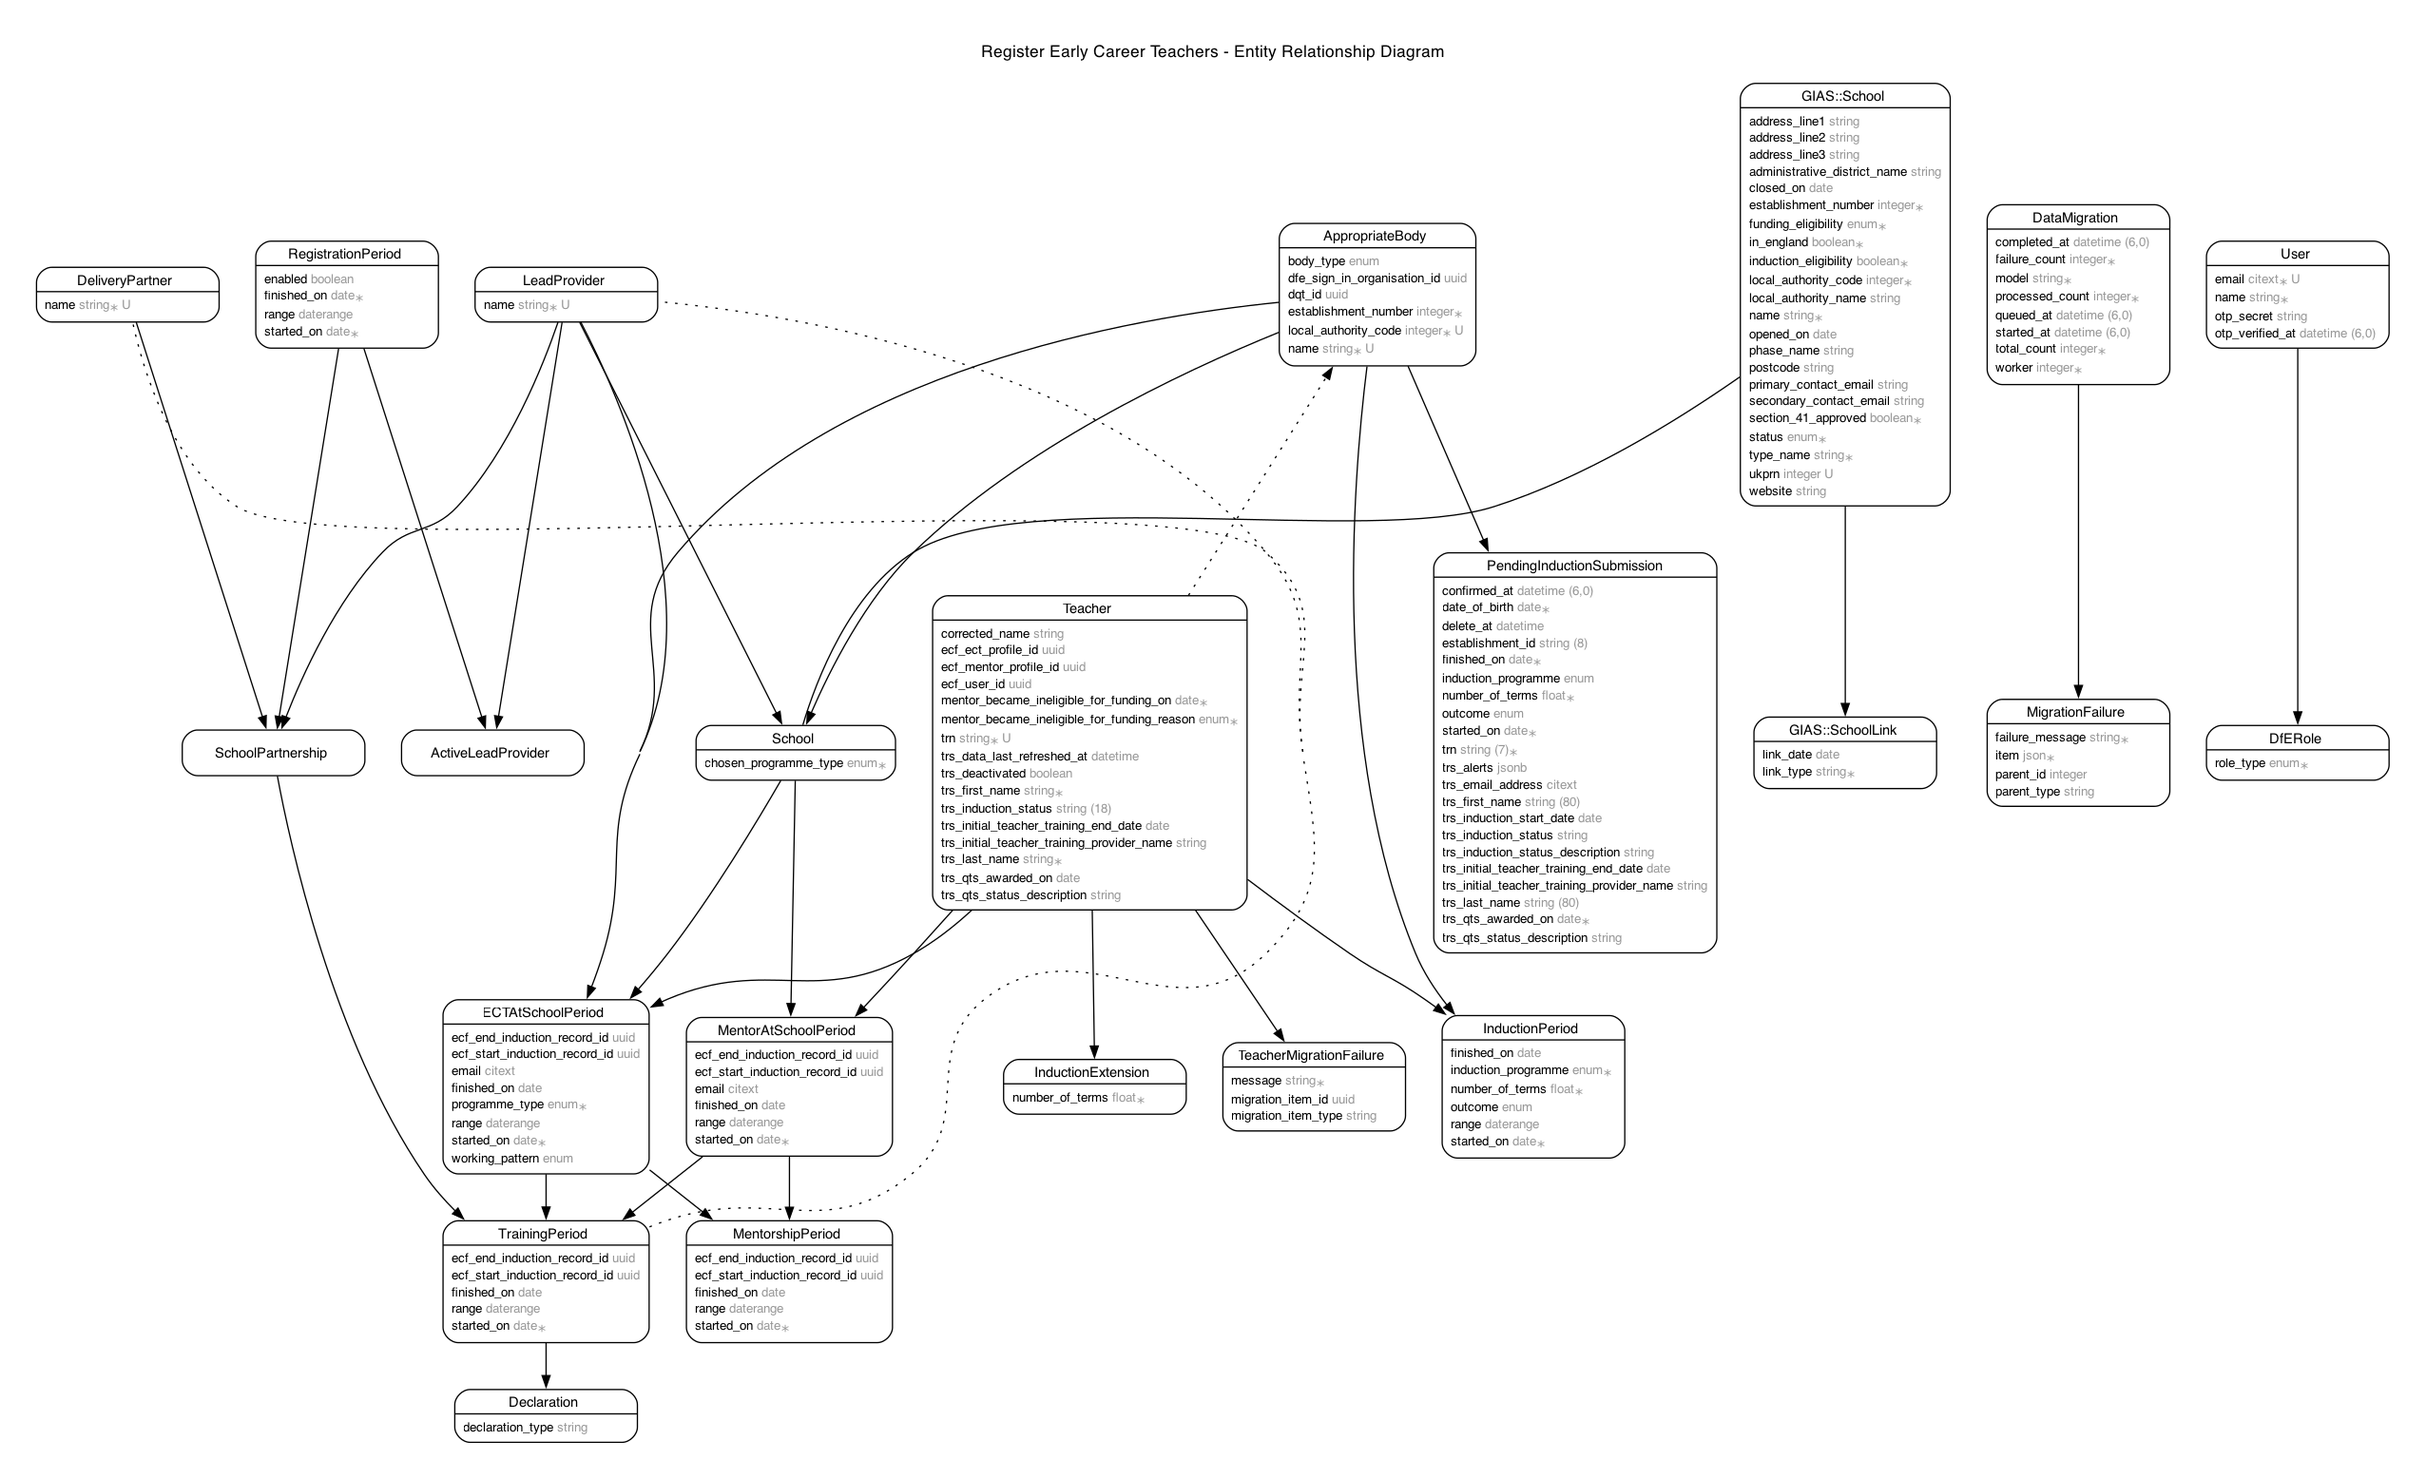
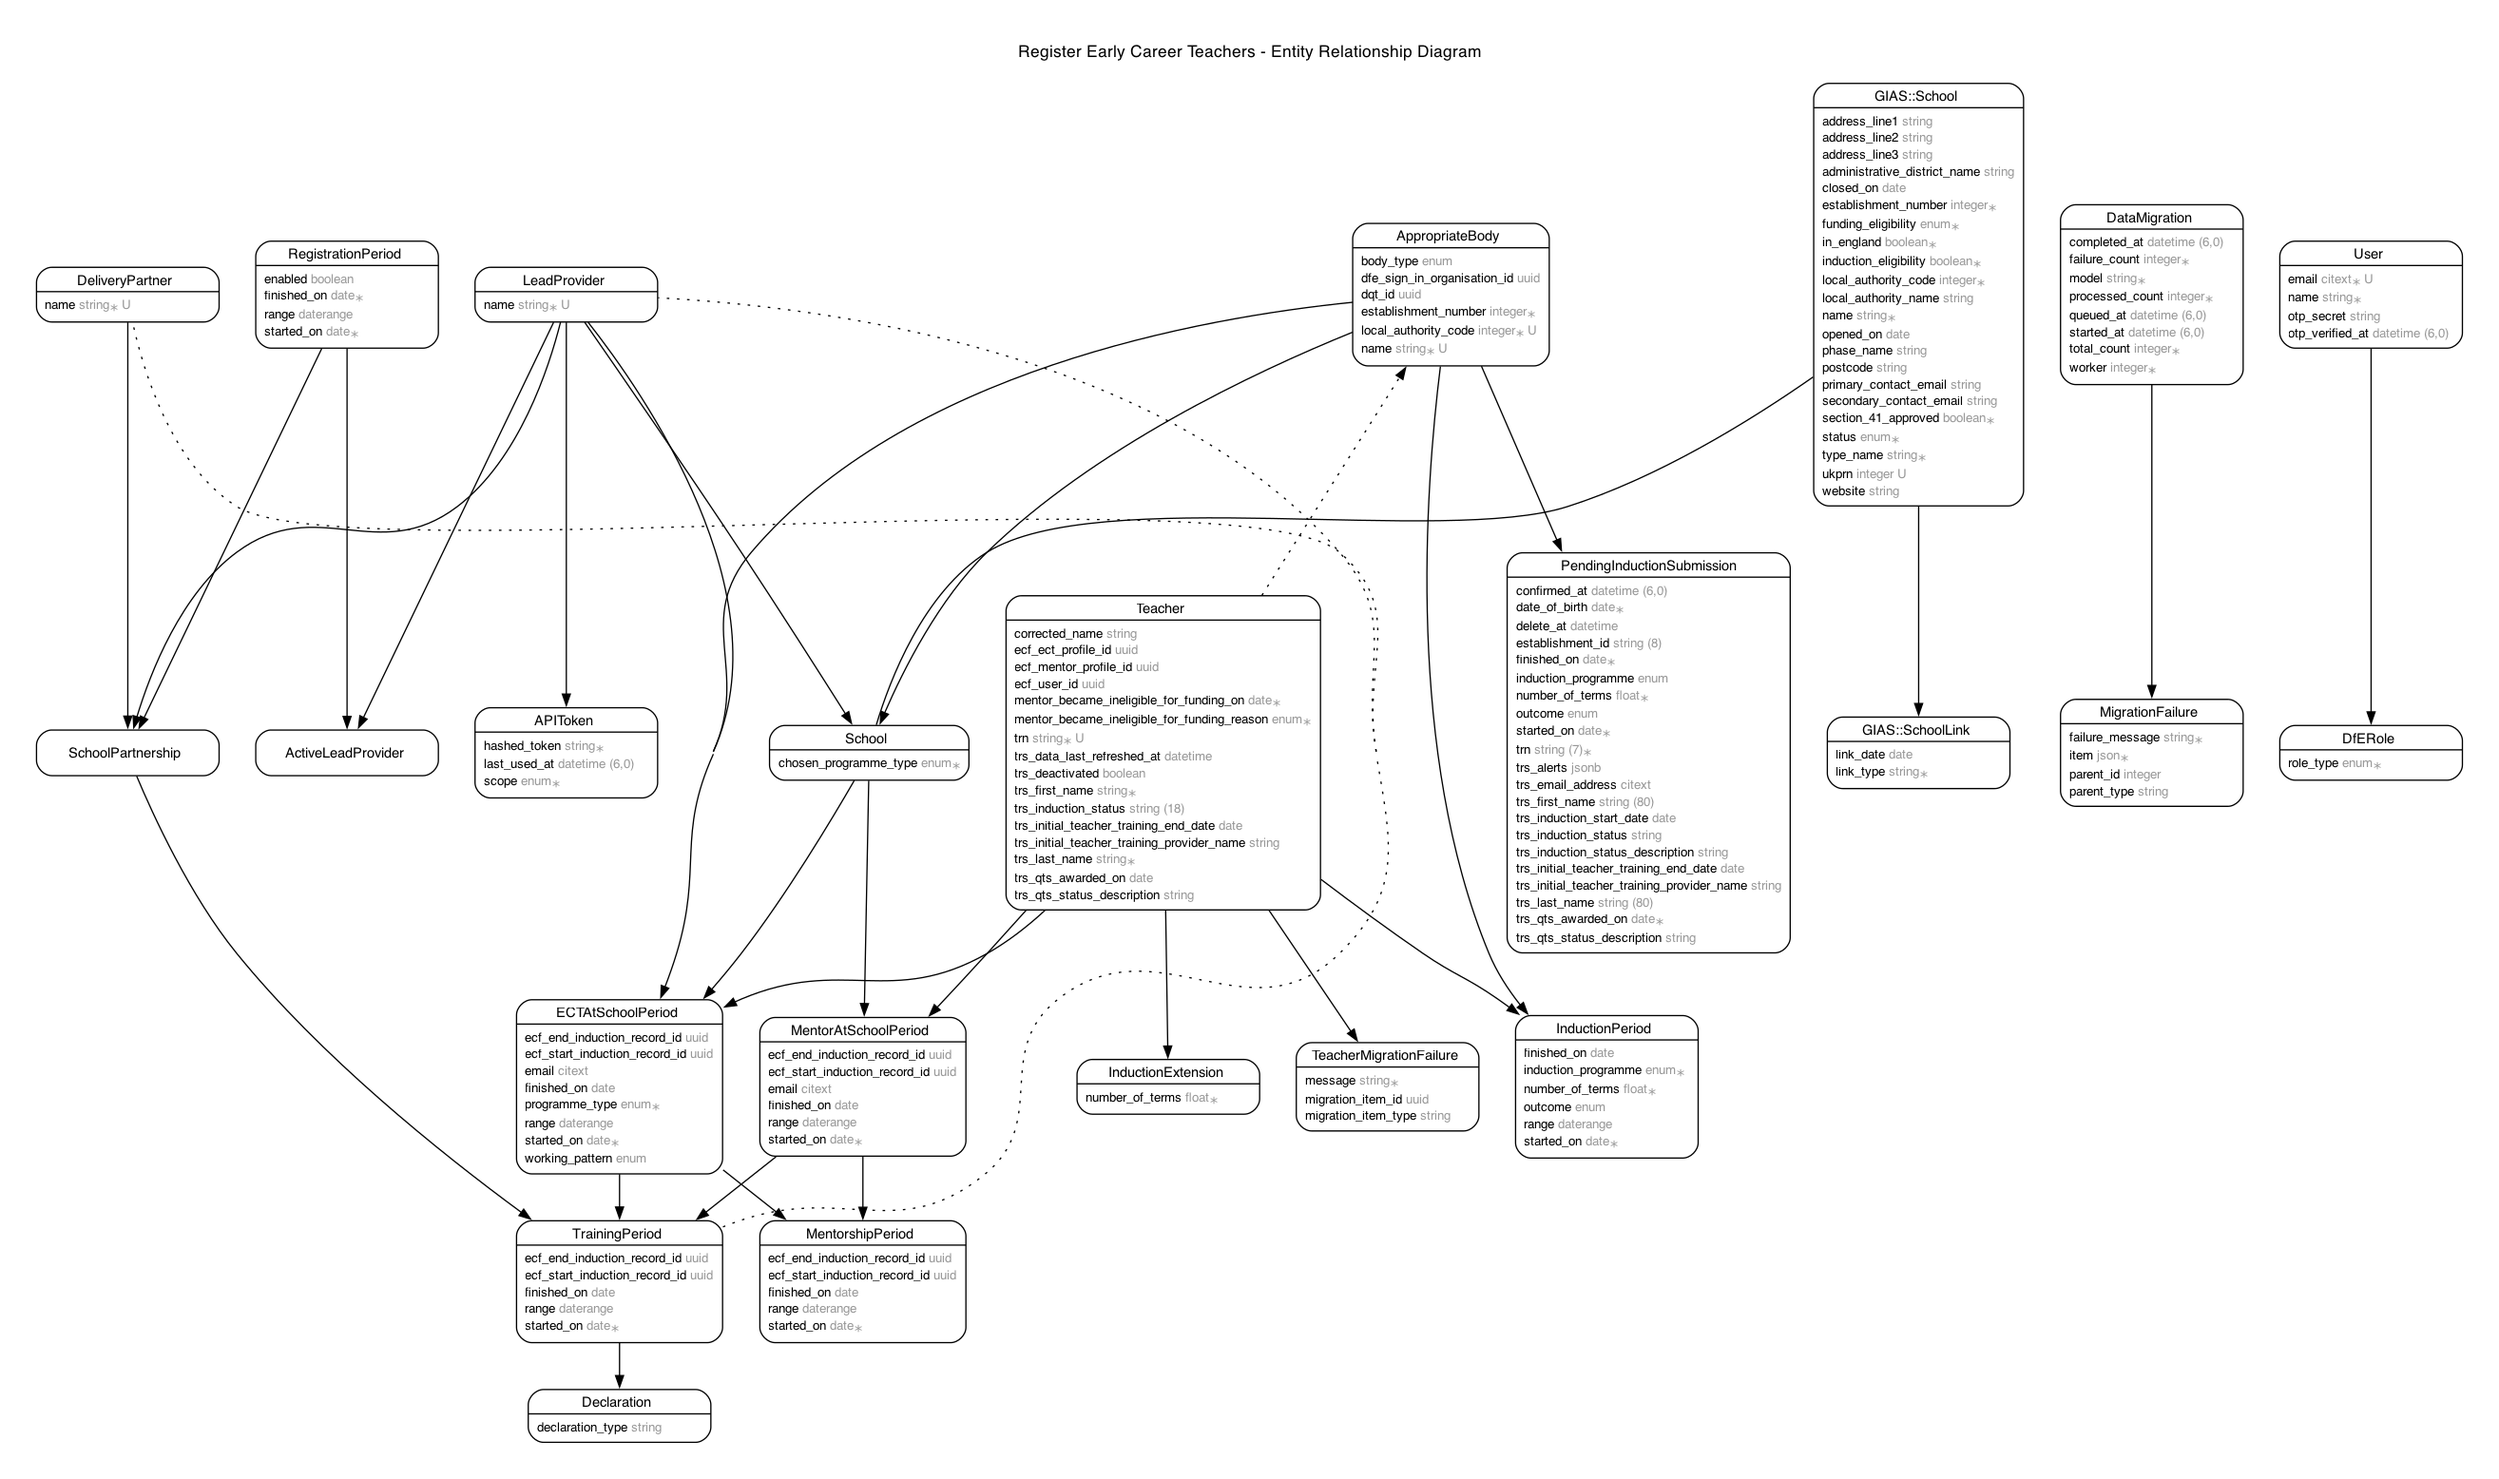
[RECT-1607] Add investigation on API Token

diff --git a/db/schema.rb b/db/schema.rb
@@ -19,6 +19,7 @@ ActiveRecord::Schema[8.0].define(version: 2025_05_15_111623) do
 
   # Custom types defined in this database.
   # Note that some types may not work with other database engines. Be careful if changing database.
+  create_enum "api_token_scopes", ["lead_provider", "teacher_record_service"]
   create_enum "appropriate_body_type", ["local_authority", "national", "teaching_school_hub"]
   create_enum "dfe_role_type", ["admin", "super_admin", "finance"]
   create_enum "event_author_types", ["appropriate_body_user", "school_user", "dfe_staff_user", "system"]
@@ -38,6 +39,19 @@ ActiveRecord::Schema[8.0].define(version: 2025_05_15_111623) do
     t.index ["lead_provider_id", "registration_period_id"], name: "idx_on_lead_provider_id_registration_period_id_1c10f35875", unique: true
     t.index ["lead_provider_id"], name: "index_active_lead_providers_on_lead_provider_id"
     t.index ["registration_period_id"], name: "index_active_lead_providers_on_registration_period_id"
+  end
+
+  create_table "api_tokens", force: :cascade do |t|
+    t.bigint "lead_provider_id", null: false
+    t.string "hashed_token", null: false
+    t.datetime "last_used_at"
+    t.enum "scope", default: "lead_provider", null: false, enum_type: "api_token_scopes"
+    t.datetime "created_at", null: false
+    t.datetime "updated_at", null: false
+    t.index ["hashed_token", "scope"], name: "index_api_tokens_on_hashed_token_and_scope"
+    t.index ["hashed_token"], name: "index_api_tokens_on_hashed_token", unique: true
+    t.index ["lead_provider_id"], name: "index_api_tokens_on_lead_provider_id"
+    t.check_constraint "lead_provider_id IS NOT NULL AND scope = 'lead_provider'::api_token_scopes OR lead_provider_id IS NULL AND scope <> 'lead_provider'::api_token_scopes"
   end
 
   create_table "appropriate_bodies", force: :cascade do |t|
@@ -578,6 +592,7 @@ ActiveRecord::Schema[8.0].define(version: 2025_05_15_111623) do
 
   add_foreign_key "active_lead_providers", "lead_providers"
   add_foreign_key "active_lead_providers", "registration_periods", primary_key: "year"
+  add_foreign_key "api_tokens", "lead_providers"
   add_foreign_key "dfe_roles", "users"
   add_foreign_key "ect_at_school_periods", "appropriate_bodies", column: "school_reported_appropriate_body_id"
   add_foreign_key "ect_at_school_periods", "lead_providers"

diff --git a/app/controllers/concerns/api/token_authenticatable.rb b/app/controllers/concerns/api/token_authenticatable.rb
@@ -1,0 +1,34 @@
+module API
+  module TokenAuthenticatable
+    extend ActiveSupport::Concern
+    include ActionController::HttpAuthentication::Token::ControllerMethods
+
+    included do
+      before_action :authenticate
+    end
+
+  private
+
+    def authenticate
+      authenticate_token || render_unauthorized
+    end
+
+    def authenticate_token
+      authenticate_with_http_token do |unhashed_token|
+        @current_api_token = APIToken.find_by_unhashed_token(unhashed_token, scope: api_token_scope).tap do |api_token|
+          if api_token
+            api_token.update!(last_used_at: Time.zone.now)
+          end
+        end
+      end
+    end
+
+    def render_unauthorized
+      render json: { error: I18n.t("api.errors.unauthorized") }.to_json, status: :unauthorized
+    end
+
+    def current_lead_provider
+      @current_api_token&.lead_provider
+    end
+  end
+end

diff --git a/app/models/api_token.rb b/app/models/api_token.rb
@@ -1,0 +1,27 @@
+class APIToken < ApplicationRecord
+  has_secure_token :hashed_token, length: 32
+  encrypts :hashed_token, deterministic: true
+
+  belongs_to :lead_provider, optional: true
+
+  enum :scope, {
+    lead_provider: "lead_provider",
+    teacher_record_service: "teacher_record_service",
+  }, validate: true
+
+  validates :hashed_token, presence: true
+  validates :scope, presence: true
+  validates :lead_provider, presence: true, if: -> { scope == APIToken.scopes[:lead_provider] }
+
+  def self.create_with_random_token!(**options)
+    create!(**options).hashed_token
+  end
+
+  def self.find_by_unhashed_token(unhashed_token, scope:)
+    find_by(hashed_token: unhashed_token, scope:)
+  end
+
+  def self.create_with_known_token!(token, scope: scopes[:lead_provider], **options)
+    find_or_create_by!(hashed_token: token, scope:, **options)
+  end
+end

diff --git a/db/migrate/20250514165507_create_api_tokens.rb b/db/migrate/20250514165507_create_api_tokens.rb
@@ -1,0 +1,22 @@
+class CreateAPITokens < ActiveRecord::Migration[8.0]
+  def change
+    create_enum :api_token_scopes, %w[lead_provider teacher_record_service]
+
+    create_table :api_tokens do |t|
+      t.references :lead_provider, foreign_key: true, null: false
+      t.string :hashed_token, null: false
+      t.datetime :last_used_at
+      t.enum :scope, enum_type: "api_token_scopes", default: "lead_provider", null: false
+
+      t.timestamps
+    end
+
+    add_check_constraint(
+      :api_tokens,
+      "(lead_provider_id IS NOT NULL AND scope = 'lead_provider') OR (lead_provider_id IS NULL AND scope <> 'lead_provider')"
+    )
+
+    add_index :api_tokens, :hashed_token, unique: true
+    add_index :api_tokens, %i[hashed_token scope]
+  end
+end

diff --git a/db/seeds.rb b/db/seeds.rb
@@ -736,3 +736,9 @@ YAML.load_file(Rails.root.join('config/personas.yml'))
 end
 
 print_seed_info('Adding funding exemptions:')
+
+print_seed_info('Adding APITokens:')
+
+lead_provider = LeadProvider.find_by_name("National Meadows Institute")
+APIToken.create_with_known_token!("national-token", lead_provider:)
+print_seed_info("Added APIToken for #{lead_provider.name}: 'national-token'", indent: 2)

diff --git a/app/controllers/api/base_controller.rb b/app/controllers/api/base_controller.rb
@@ -1,4 +1,11 @@
 module API
-  class BaseController < ActionController::Base
+  class BaseController < ActionController::API
+    include API::TokenAuthenticatable
+
+  private
+
+    def api_token_scope
+      APIToken.scopes[:lead_provider]
+    end
   end
 end
